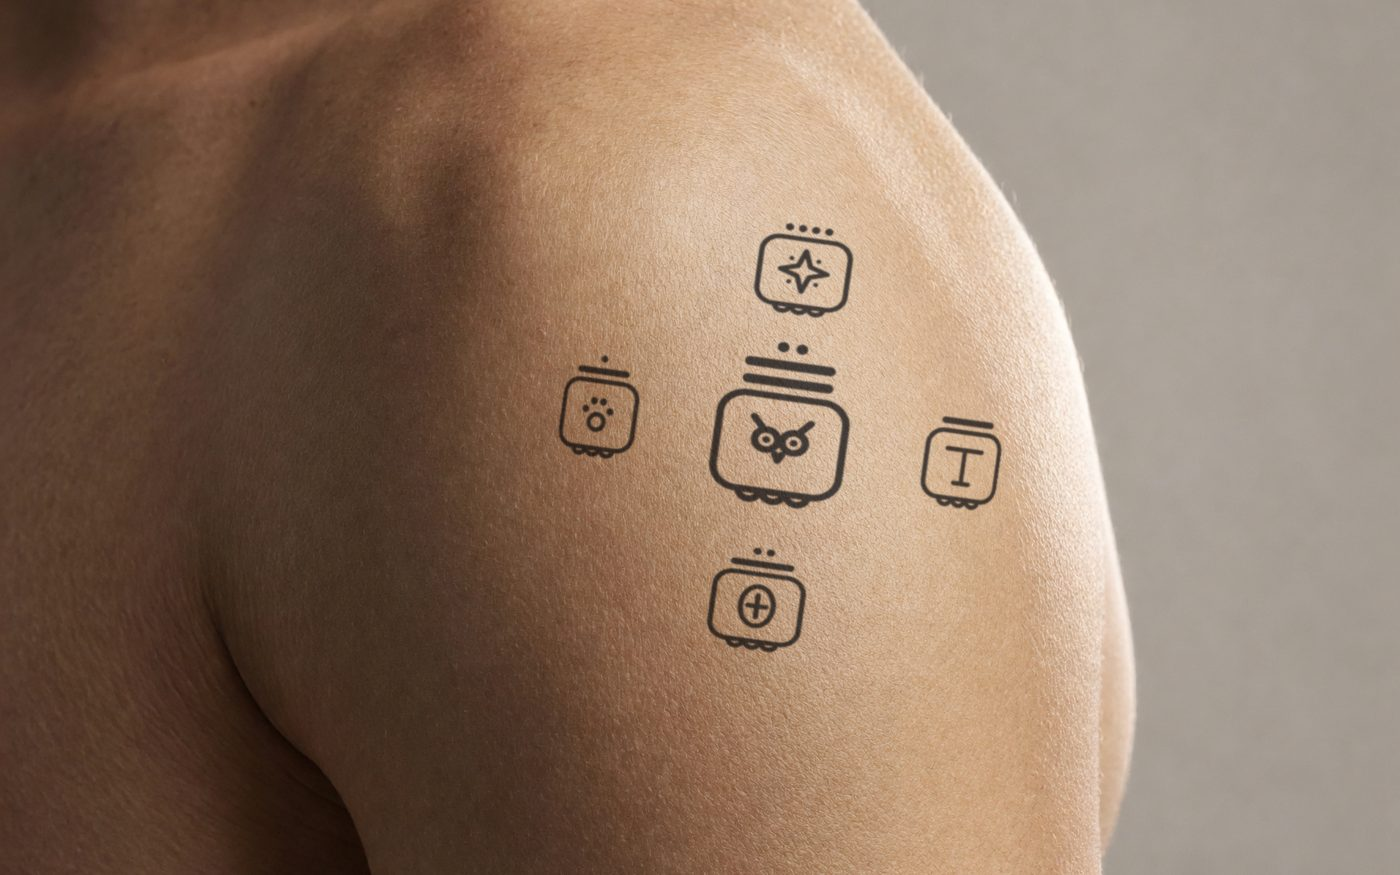
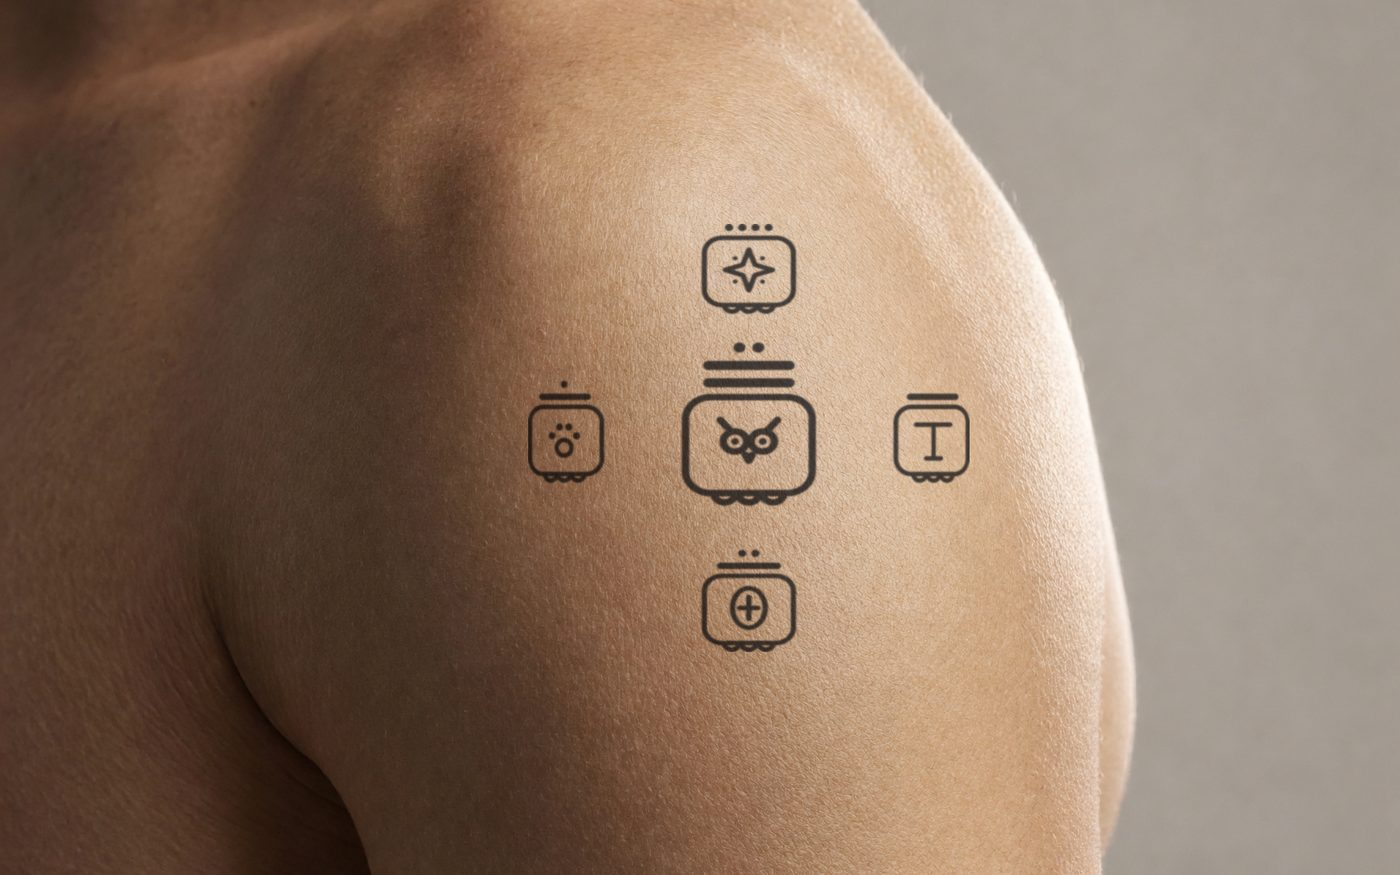
Shoulder cross upright, on the arm's centre line

Changed region(s): [[0.3686, 0.2469, 0.7371, 0.5863], [0.4914, 0.6171, 0.5836, 0.7406]]

diff --git a/index.html b/index.html
@@ -802,7 +802,7 @@
 
 <script>
 /* ═══ CONFIG — the only lines you need to edit (see docs/LAUNCH.md) ═══ */
-const MEDIA_V="15";   /* bump when a gallery or example image changes, so browsers fetch the new one */
+const MEDIA_V="16";   /* bump when a gallery or example image changes, so browsers fetch the new one */
 const mv=u=>u+(u.includes("?")?"&":"?")+"v="+MEDIA_V;
 const CONFIG={
   payApi:"",        // your payment worker, e.g. "https://starot-pay.yourname.workers.dev" — empty = tattoo files download free

diff --git a/tools/higgsfield/composite-gallery.py b/tools/higgsfield/composite-gallery.py
@@ -22,7 +22,7 @@ JOBS = {
     "maya-day-chest-man":      ("chest-plate-man-v25.png", MAYA / "maya-day.png", (1290, 990), 250, 1, 1, 0, None, None),
     "maya-trecena-back-woman": ("back-plate-woman-v25.png", MAYA / "maya-trecena.png", (932, 1010), 220, 1, 1, 0, None, None),
     "maya-tone-forearm-woman": ("forearm-upper-plate-woman-v24.png", MAYA / "maya-tone.png", (1600, 875), 220, 1, .92, 11, None, None),
-    "maya-cross-deltoid-man":  ("deltoid-plate-man-v24.png", MAYA / "maya-cross.png", (990, 1165), 560, 1, .95, -8, None, None, .5),
+    "maya-cross-deltoid-man":  ("deltoid-plate-man-v24.png", MAYA / "maya-cross.png", (950, 1165), 560, 1, .95, 0, None, None, .5),   # upright: the arm runs straight down (centre x ≈ 925)
     # the sky
     "wheel-thigh-woman":       ("thigh-plate-woman-v25.png", DES / "design-1-natal-wheel.png", (975, 1360), 330, 1, .86, 29, None, None),
     "line-forearm-man":        ("forearm-plate-man-v24.png", DES / "design-4-sun-and-rising-gemini-leo.png", (1400, 1010), 490, 1, 1, -2, None, None),
